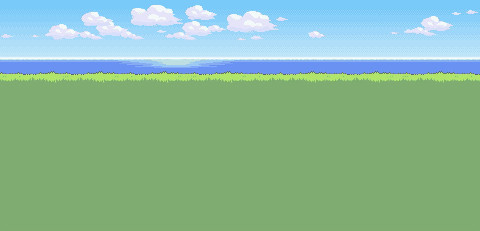
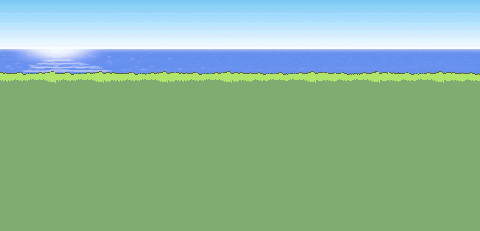
Rediseñados fondos, y añadidos algunos sonidos entre otras

Changed region(s): [[0.0, 0.0, 1.0, 0.3636]]

diff --git a/src/app/cuestionario/cuestionario.component.html b/src/app/cuestionario/cuestionario.component.html
@@ -11,17 +11,18 @@
 <div class="cuestionario" *ngIf="this.DatosService.emergente == 'pregunta1'">
     <div class="imagen" [ngStyle]="{'background-image': this.DatosService.listaPokemonsVisibles[0].urlSprite}">
     </div>
-    Cómo se llama este bicho
+    ¿Cómo se llama este bicho?
     <ul>
-        <li *ngFor="let pregunta of preguntas['preguntaNombre'] "><button class="boton"
-                (click)="respuesta(pregunta.toString(), 1)">{{pregunta}}</button></li>
+        <li *ngFor="let pregunta of preguntas['preguntaNombre'] ">
+            <button class="boton" (click)="respuesta(pregunta.toString(), 1)">{{pregunta}}</button>
+        </li>
     </ul>
 </div>
 <div class="cuestionario" *ngIf="this.DatosService.emergente == 'pregunta2'">
     <div class="imagen"
         [ngStyle]="{'background-image': this.DatosService.listaPokemonsVisibles[1].urlSprite, 'object-fit': 'cover'}">
     </div>
-    Cuál es el peso medio de este bicho
+    ¿Cuál es el peso medio de este bicho?
     <ul>
         <li *ngFor="let pregunta of preguntas['preguntaPeso']"><button class="boton"
                 (click)="respuesta(pregunta.toString(), 2)">{{pregunta}}kg</button></li>
@@ -30,7 +31,7 @@
 <div class="cuestionario" *ngIf="this.DatosService.emergente == 'pregunta3'">
     <div class="imagen" [ngStyle]="{'background-image': this.DatosService.listaPokemonsVisibles[2].urlSprite}">
     </div>
-    Cómo se llama este bicho
+    ¿Cómo se llama este bicho?
     <ul>
         <li *ngFor="let pregunta of preguntas['preguntaNombreDos']"><button class="boton"
                 (click)="respuesta(pregunta.toString(), 3)">{{pregunta}}</button></li>
@@ -39,7 +40,7 @@
 <div class="cuestionario" *ngIf="this.DatosService.emergente == 'pregunta4'">
     <div class="imagen" [ngStyle]="{'background-image': this.DatosService.listaPokemonsVisibles[3].urlSprite}">
     </div>
-    Cuánto mide este bicho
+    ¿Cuánto mide este bicho?
     <ul>
         <li *ngFor="let pregunta of preguntas['preguntaAltura']"><button class="boton"
                 (click)="respuesta(pregunta.toString(), 4); resultado()">{{pregunta}}cm</button></li>
@@ -63,8 +64,6 @@
 
 <div class="fallo" *ngIf="this.fallo == true"></div>
 
-
-<!-- aquí haré un for -->
 <div class="libertad" *ngIf="this.enTransportadora >= 1 && this.respuestasUsuario[0] == true"
     [ngStyle]="{'background-image': this.DatosService.listaPokemonsVisibles[0].urlSprite}"></div>
 
@@ -76,3 +75,18 @@
 
 <div class="libertad" *ngIf="this.enTransportadora >= 4 && this.respuestasUsuario[3] == true"
     [ngStyle]="{'background-image': this.DatosService.listaPokemonsVisibles[3].urlSprite}"></div>
+
+
+<!-- 
+<div class="libertad" *ngFor="let i of [0, 1, 2, 3]"
+  [ngIf]="this.enTransportadora >= (i + 1) && this.respuestasUsuario[i]"
+  [ngStyle]="{'background-image': DatosService.listaPokemonsVisibles[i].urlSprite}">
+</div> -->
+
+
+<div class="cuestionario" *ngIf="this.DatosService.emergente == 'fin'">
+    <div class="imagen" [ngStyle]="{'background-image': this.DatosService.listaPokemonsVisibles[3].urlSprite}">
+    </div>
+    ¡Fin! Espero no haber causado traumas en tu persona
+    <button class="boton" (click)="this.DatosService.cambioFaseYEmergente('teamRocket', 'bienvenida')">Reiniciar</button>
+</div>

diff --git a/src/app/cuestionario/cuestionario.component.css b/src/app/cuestionario/cuestionario.component.css
@@ -98,27 +98,31 @@
 
 @keyframes probando {
     0% {
+        scale: 0;
         opacity: 0;
-        margin-top: calc(82vh - 100px);
-        margin-left: 7vw;
+        margin-top: calc(80vh - 100px);
+        margin-left: 9vw;
     }
     5% {
+        scale: 2;
         opacity: 1;
+        margin-top: calc(81vh - 100px);
+        margin-left: 8vw;
     }
 
     18% {
         margin-top: calc(82vh - 100px);
-        margin-left: 7vw;
+        margin-left: 8.5vw;
     }
 
     19% {
         margin-top: calc(80vh - 100px);
-        margin-left: 7.5vw;
+        margin-left: 9vw;
     }
 
     20% {
         margin-top: calc(87vh - 100px);
-        margin-left: 8vw;
+        margin-left: 9.5vw;
     }
 
     100% {
@@ -170,7 +174,7 @@
     scale: 2;
     margin-top: calc(87vh - 100px);
     animation-name: petando;
-    animation-duration: 15s;
+    animation-duration: 16s;
     animation-timing-function: linear;
 }
 
@@ -179,26 +183,42 @@
         margin-left: 50vw;
         margin-top: calc(87vh - 100px);
     }
-    89% {
+    70% {
         margin-left: 50vw;
         margin-top: calc(87vh - 100px);
     }
 
-    90% {
+    85% {
         margin-top: calc(87vh - 100px);
         margin-left: 70vw;
         scale: 2;
+    }
 
+    87% {
+        margin-top: calc(87vh - 100px);
+        margin-left: 70vw;
+        scale: 2;
+    }
+
+    87.5% {
+        margin-top: calc(80vh - 100px);
+        margin-left: 72vw;
+        scale: 1.7;
+    }
+    88% {
+        margin-top: calc(82vh - 100px);
+        margin-left: 73vw;
+        scale: 1.5;
     }
 
     99% {
-        margin-top: calc(10vh - 100px);
+        margin-top: calc(40vh - 100px);
         margin-left: 95vw;
         scale: 0;
         opacity: 1;
     }
     100% {
-        margin-top: calc(10vh - 100px);
+        margin-top: 40vh;
         margin-left: 95vw;
         scale: 0;
         opacity: 0;

diff --git a/src/app/cuestionario/cuestionario.component.ts b/src/app/cuestionario/cuestionario.component.ts
@@ -22,7 +22,6 @@ export class CuestionarioComponent {
 
   enTransportadora: number = 0; /* llegado el momento, el número de pokemons que van de camino a la máquina de pienso */
   fallo: boolean = false; /* ejecutar la animación de fallo */
-  libertad: boolean = false; /* ejecutar la animación de acierto */
 
 
 
@@ -75,20 +74,40 @@ export class CuestionarioComponent {
 
   }
 
-  resultado() {
+  async resultado() {
+
+    const duracionIntervalo: number = 5000
     const intervalId = setInterval(() => {
+      
       this.enTransportadora += 1;
 
+      const pokemonEnCinta = this.DatosService.listaPokemonsVisibles[this.enTransportadora -1];
+
+      console.log("otro pokemon!!!");
+      console.log(this.enTransportadora  -1);
+      console.log(pokemonEnCinta.nombre);
+
+      const audio = new Audio (pokemonEnCinta.sonido);
+      audio.load();
+      
       if (this.respuestasUsuario[this.enTransportadora - 1] == false) {
         setTimeout(() => {
           this.fallo = true;
           console.log(this.fallo);
+
+          console.log(pokemonEnCinta.nombre);
+          audio.play();
         }, 12200);
 
         setTimeout(() => {
           this.fallo = false;
           console.log(this.fallo);
         }, 14500);
+
+        setTimeout(() => { 
+          this.DatosService.emergente = "fin";
+        }, duracionIntervalo * 7);
+        
       }/* 
       if (this.respuestasUsuario[contador - 1] == true) {
         setTimeout(() => {
@@ -101,11 +120,11 @@ export class CuestionarioComponent {
           console.log(this.fallo);
         }, 14000);
       } */
-    }, 5000);
+    }, duracionIntervalo);
 
     setTimeout(() => {
       clearInterval(intervalId);
-    }, 60000)
+    }, duracionIntervalo * 4)
 
 
     /* 

diff --git a/src/app/app.component.ts b/src/app/app.component.ts
@@ -41,7 +41,7 @@ export class AppComponent {
           indice: indice,
           urlSprite: 'url(' + pokemon.sprites.front_default + ')',
           urlSpriteBack:  'url(' + pokemon.sprites.back_default + ')',
-          sonido: pokemon.cries.latest,
+          sonido: pokemon.cries.latest , /* lo de New Audio lo he puesto yo pa ver si va */
           peso: pokemon.weight / 10, // kg
           altura: pokemon.height * 10, // cm
         };
